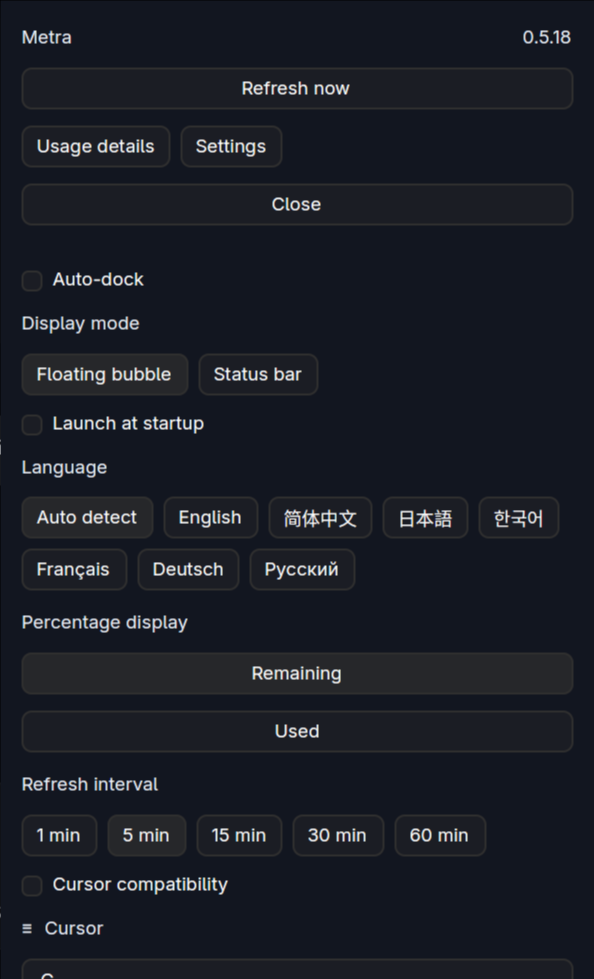
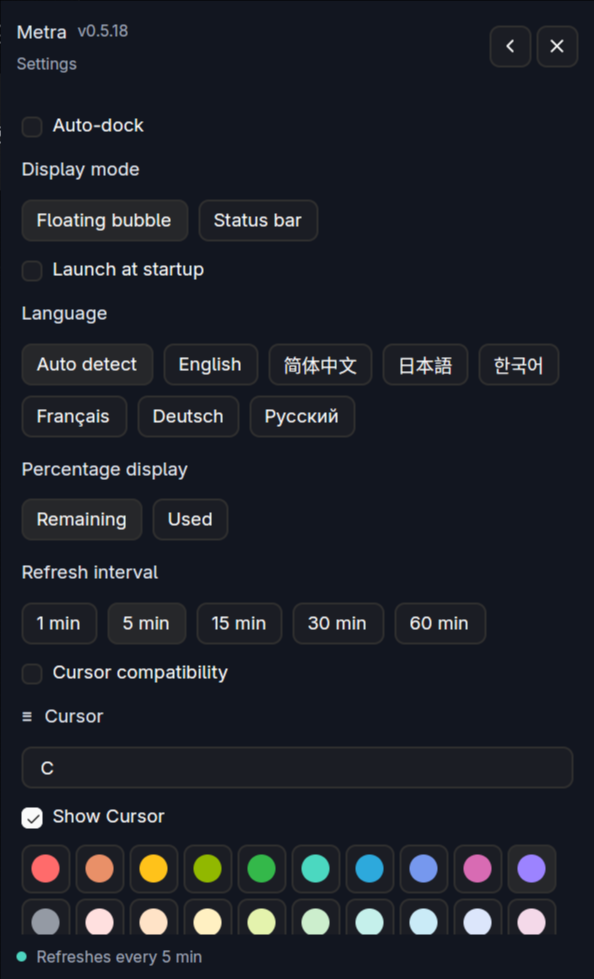
fix(gpui): restore provider presentation and compact panel controls

diff --git a/desktop-gpui/src/main.rs b/desktop-gpui/src/main.rs
@@ -118,48 +118,83 @@ impl Render for Dashboard {
         self.prepare_labels(window, cx);
         let payload = self.service.payload();
         let t = I18n::new(payload.settings.ui_language);
+        let details = self.page == Page::Details;
+        let mut actions = div().h_flex().gap_1();
+        if details {
+            actions = actions.child(
+                Button::new("refresh")
+                    .icon(IconName::RefreshCw)
+                    .accessibility_label(t.t("refresh.nowUsage"))
+                    .tooltip(t.t("refresh.nowUsage"))
+                    .disabled(self.refresh_task.is_some())
+                    .on_click(cx.listener(|this, _, _, cx| this.refresh(cx))),
+            );
+        } else {
+            actions = actions.child(
+                Button::new("details")
+                    .icon(IconName::ChevronLeft)
+                    .accessibility_label(t.t("native.details"))
+                    .tooltip(t.t("native.details"))
+                    .on_click(cx.listener(|this, _, window, cx| {
+                        runtime::position_panel(Page::Details, window, cx);
+                        this.page = Page::Details;
+                        cx.notify();
+                    })),
+            );
+        }
+        if self.page != Page::Settings {
+            actions = actions.child(
+                Button::new("settings")
+                    .icon(IconName::Settings)
+                    .accessibility_label(t.t("native.settings"))
+                    .tooltip(t.t("native.settings"))
+                    .on_click(cx.listener(|this, _, window, cx| {
+                        runtime::position_panel(Page::Settings, window, cx);
+                        this.page = Page::Settings;
+                        cx.notify();
+                    })),
+            );
+        }
+        actions = actions.child(
+            Button::new("close-panel")
+                .icon(IconName::Close)
+                .accessibility_label(t.t("native.close"))
+                .tooltip(t.t("native.close"))
+                .on_click(|_, window, _| window.remove_window()),
+        );
         let mut header = div()
             .id("header")
             .v_flex()
-            .gap_3()
-            .p_4()
+            .gap_2()
+            .p_3()
             .flex_shrink_0()
             .child(
                 div()
                     .h_flex()
                     .justify_between()
-                    .child("Metra")
-                    .child(env!("CARGO_PKG_VERSION")),
-            )
-            .child(
-                Button::new("refresh")
-                    .label(t.t("native.refresh"))
-                    .disabled(self.refresh_task.is_some())
-                    .on_click(cx.listener(|this, _, _, cx| this.refresh(cx))),
+                    .gap_2()
+                    .child(
+                        div()
+                            .v_flex()
+                            .gap_1()
+                            .child(
+                                div().h_flex().gap_2().child("Metra").child(
+                                    div()
+                                        .text_xs()
+                                        .text_color(rgb(0xa6adbc))
+                                        .child(format!("v{}", env!("CARGO_PKG_VERSION"))),
+                                ),
+                            )
+                            .child(div().text_xs().text_color(rgb(0xa6adbc)).child(t.t(
+                                if self.page == Page::Settings {
+                                    "native.settings"
+                                } else {
+                                    "app.usageSubtitle"
+                                },
+                            ))),
+                    )
+                    .child(actions),
             );
-        header = header.child(
-            div()
-                .h_flex()
-                .gap_2()
-                .child(
-                    Button::new("details")
-                        .label(t.t("native.details"))
-                        .on_click(cx.listener(|this, _, window, cx| {
-                            runtime::position_panel(Page::Details, window, cx);
-                            this.page = Page::Details;
-                            cx.notify();
-                        })),
-                )
-                .child(
-                    Button::new("settings")
-                        .label(t.t("native.settings"))
-                        .on_click(cx.listener(|this, _, window, cx| {
-                            runtime::position_panel(Page::Settings, window, cx);
-                            this.page = Page::Settings;
-                            cx.notify();
-                        })),
-                ),
-        );
         let mut content = div()
             .id("body")
             .v_flex()
@@ -168,17 +203,34 @@ impl Render for Dashboard {
             .flex_1()
             .min_h_0()
             .overflow_y_scroll();
-        header = header.child(
-            Button::new("close-panel")
-                .label(t.t("native.close"))
-                .on_click(|_, window, _| window.remove_window()),
-        );
         if self.page == Page::Details {
             header = header.child(self.update_banner(cx));
         }
         if let Some(error) = &self.error {
             header = header.child(error.clone());
         }
+        let active = self.refresh_task.is_some() || self.settings_task.is_some();
+        let status = div()
+            .h_flex()
+            .gap_2()
+            .px_3()
+            .py_2()
+            .flex_shrink_0()
+            .text_xs()
+            .text_color(rgb(0xa6adbc))
+            .child(div().size(px(6.)).rounded_full().bg(rgb(if active {
+                0xffd15a
+            } else {
+                0x4dd4bf
+            })))
+            .child(if self.refresh_task.is_some() {
+                t.t("native.refreshing")
+            } else {
+                t.format(
+                    "refresh.everyMinutes",
+                    &[("minutes", payload.settings.refresh_minutes.to_string())],
+                )
+            });
         if self.page == Page::Settings {
             return div()
                 .v_flex()
@@ -188,7 +240,8 @@ impl Render for Dashboard {
                 .text_color(rgb(0xe8ecf3))
                 .font_family("Inter")
                 .child(header)
-                .child(content.child(self.preferences(cx)));
+                .child(content.child(self.preferences(cx)))
+                .child(status);
         }
         if self.page == Page::Consent {
             return div()
@@ -199,7 +252,8 @@ impl Render for Dashboard {
                 .text_color(rgb(0xe8ecf3))
                 .font_family("Inter")
                 .child(header)
-                .child(content.child(self.consent(cx)));
+                .child(content.child(self.consent(cx)))
+                .child(status);
         }
         for provider in payload.settings.bubble_provider_order {
             let (_, snapshot) = match provider {
@@ -235,6 +289,7 @@ impl Render for Dashboard {
             .font_family("Inter")
             .child(header)
             .child(content)
+            .child(status)
     }
 }
 fn main() {

diff --git a/desktop-gpui/src/preferences.rs b/desktop-gpui/src/preferences.rs
@@ -147,6 +147,7 @@ impl Dashboard {
             .child(t.t("menu.language"))
             .child(languages)
             .child(t.t("menu.bubblePercentage"));
+        let mut percentages = div().h_flex().flex_wrap().gap_2();
         for (i, (mode, key)) in [
             (BubblePercentMode::Remaining, "menu.remaining"),
             (BubblePercentMode::Used, "menu.used"),
@@ -154,7 +155,7 @@ impl Dashboard {
         .into_iter()
         .enumerate()
         {
-            view = view.child(
+            percentages = percentages.child(
                 Button::new(("percentage", i))
                     .label(t.t(key))
                     .selected(s.bubble_percent_mode == mode)
@@ -164,6 +165,7 @@ impl Dashboard {
                     ),
             );
         }
+        view = view.child(percentages);
         let mut intervals = div().h_flex().flex_wrap().gap_2();
         for (i, minutes) in [1, 5, 15, 30, 60].into_iter().enumerate() {
             intervals = intervals.child(
@@ -205,6 +207,8 @@ impl Dashboard {
                 let handle = div()
                     .id(("order", i))
                     .track_focus(focus)
+                    .role(Role::Button)
+                    .aria_label(t.format("config.dragProviderOrder", &[("provider", name.into())]))
                     .tab_stop(true)
                     .cursor_move()
                     .child("≡")
@@ -213,11 +217,15 @@ impl Dashboard {
                             cx.stop_active_drag(window);
                             return;
                         }
+                        if this.settings_task.is_some() {
+                            return;
+                        }
                         let shift = match event.keystroke.key.as_str() {
                             "up" => -1,
                             "down" => 1,
                             _ => return,
                         };
+                        cx.stop_propagation();
                         this.move_provider(provider, shift, cx);
                     }))
                     .when(!busy, |handle| {
@@ -261,7 +269,20 @@ impl Dashboard {
             for (j, value) in BUBBLE_COLOR_PALETTE.iter().copied().enumerate() {
                 palette = palette.child(
                     Button::new((SharedString::from(format!("palette-{i}")), j))
-                        .label(value)
+                        .accessibility_label(t.format(
+                            "config.chooseCurrentColor",
+                            &[("provider", name.into()), ("color", value.into())],
+                        ))
+                        .tooltip(value)
+                        .size(px(28.))
+                        .p_1()
+                        .child(
+                            div()
+                                .size(px(16.))
+                                .rounded_full()
+                                .bg(rgb(u32::from_str_radix(value.trim_start_matches('#'), 16)
+                                    .unwrap_or(0x9c83ff))),
+                        )
                         .selected(value == color)
                         .disabled(busy)
                         .on_click(cx.listener(move |this, _, _, cx| {

diff --git a/desktop-gpui/src/usage.rs b/desktop-gpui/src/usage.rs
@@ -81,6 +81,14 @@ impl Dashboard {
             Provider::Codex => "Codex",
             Provider::Claude => "Claude Code",
         };
+        let settings = self.service.payload().settings;
+        let (label, color) = match provider {
+            Provider::Cursor => (settings.cursor_bubble_label, settings.cursor_bubble_color),
+            Provider::Codex => (settings.codex_bubble_label, settings.codex_bubble_color),
+            Provider::Claude => (settings.claude_bubble_label, settings.claude_bubble_color),
+        };
+        let accent =
+            rgb(u32::from_str_radix(color.trim_start_matches('#'), 16).unwrap_or(0x9c83ff));
         let running = self.refreshing.contains(&provider);
         let stale = snapshot.stale
             && (!snapshot.quotas.is_empty()
@@ -99,7 +107,26 @@ impl Dashboard {
                 div()
                     .h_flex()
                     .justify_between()
-                    .child(name)
+                    .child(
+                        div()
+                            .h_flex()
+                            .gap_2()
+                            .text_color(accent)
+                            .child(
+                                div()
+                                    .min_w(px(20.))
+                                    .h(px(20.))
+                                    .px_1()
+                                    .rounded_md()
+                                    .bg(accent.opacity(0.12))
+                                    .text_size(px(9.))
+                                    .flex()
+                                    .items_center()
+                                    .justify_center()
+                                    .child(label),
+                            )
+                            .child(name),
+                    )
                     .child(t.t(if running {
                         "refresh.refreshing"
                     } else if stale {
@@ -137,7 +164,7 @@ impl Dashboard {
                             div()
                                 .h_full()
                                 .w(relative(remaining as f32 / 100.))
-                                .bg(rgb(0x9c83ff))
+                                .bg(accent)
                                 .rounded_full(),
                         ),
                 )

diff --git a/docs/migrations/gpui-parity.md b/docs/migrations/gpui-parity.md
@@ -306,3 +306,19 @@ consistent with the now-fixed last-window behavior. macOS signing/metadata check
 passed but lipo interpreted the executable path as an architecture because the
 arguments were ordered incorrectly. The verifier now puts the executable first.
 These final corrections await the next platform CI run.
+
+### Native presentation and installer checkpoint
+
+Commit `ce856e6` completed the native lifecycle and legacy-status migration tests
+on Linux, macOS and Windows in run `45560439506`. Linux Debian and macOS signed
+app/DMG packaging succeeded. Windows also completed the retained v0.2.2 installer
+upgrade with the `/S` restart contract and preserved status-bar preferences.
+
+The next presentation change restores custom provider badges and palette colors
+in usage cards, compact accessible icon actions, and the bottom refresh status.
+Palette controls now show actual color swatches with localized accessible names;
+provider keyboard reordering ignores input while saving and consumes arrow keys.
+Both local native smoke scenarios pass after these changes. README screenshots
+were recaptured from the isolated synthetic-data native application and inspected.
+Full mixed-monitor and physical pointer acceptance remains outstanding; no release
+has been published.
